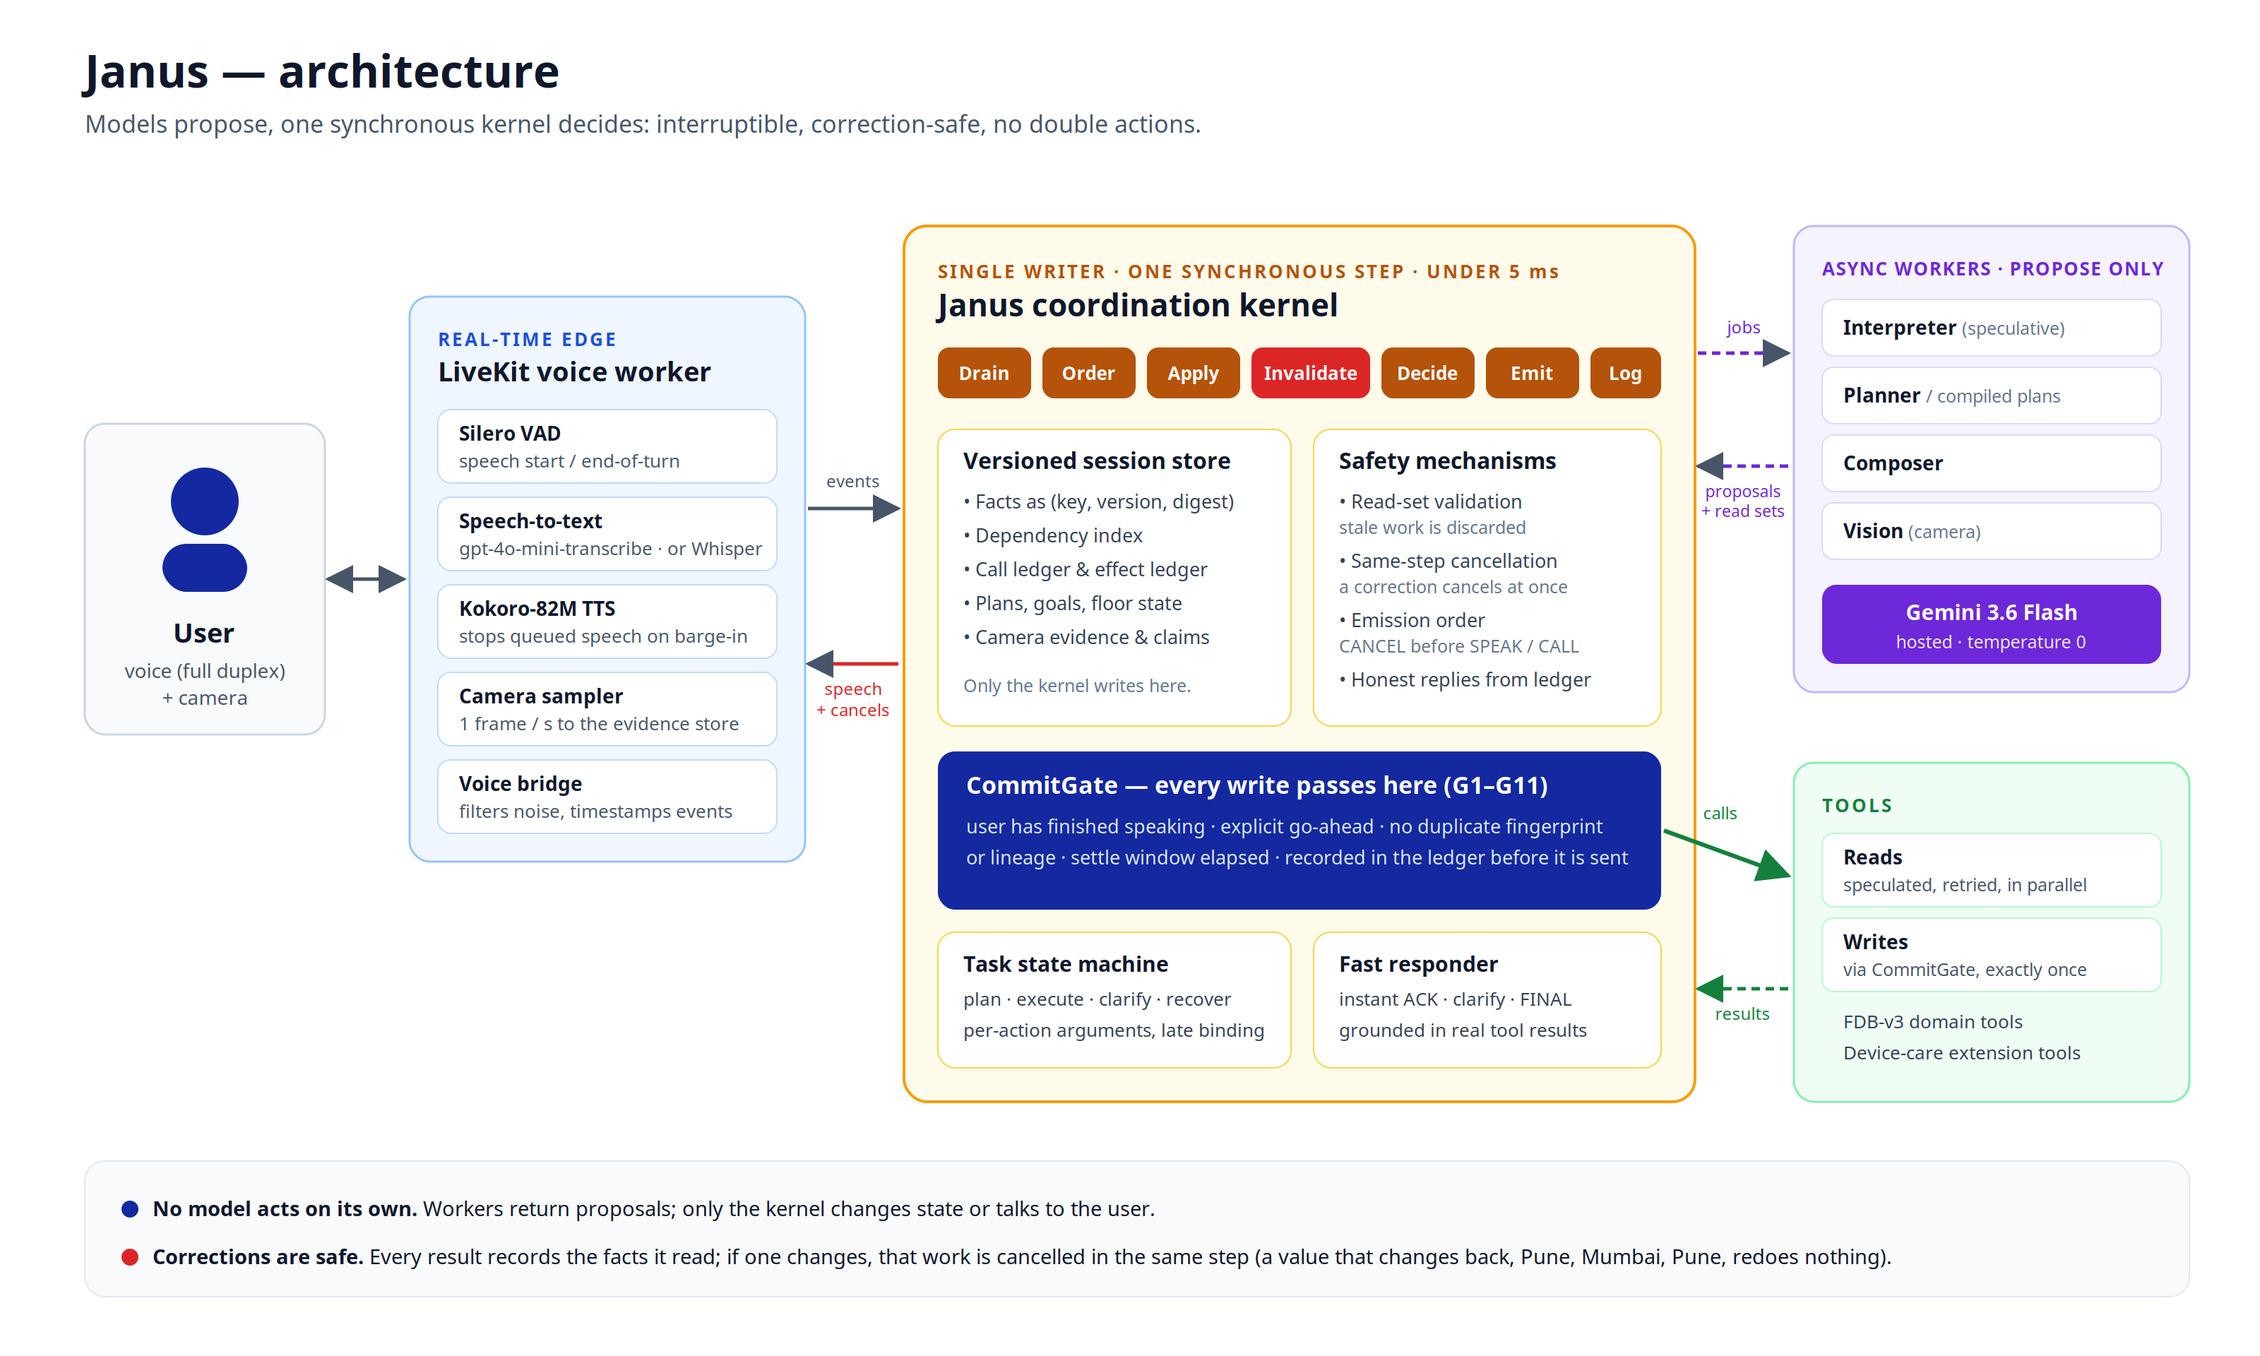
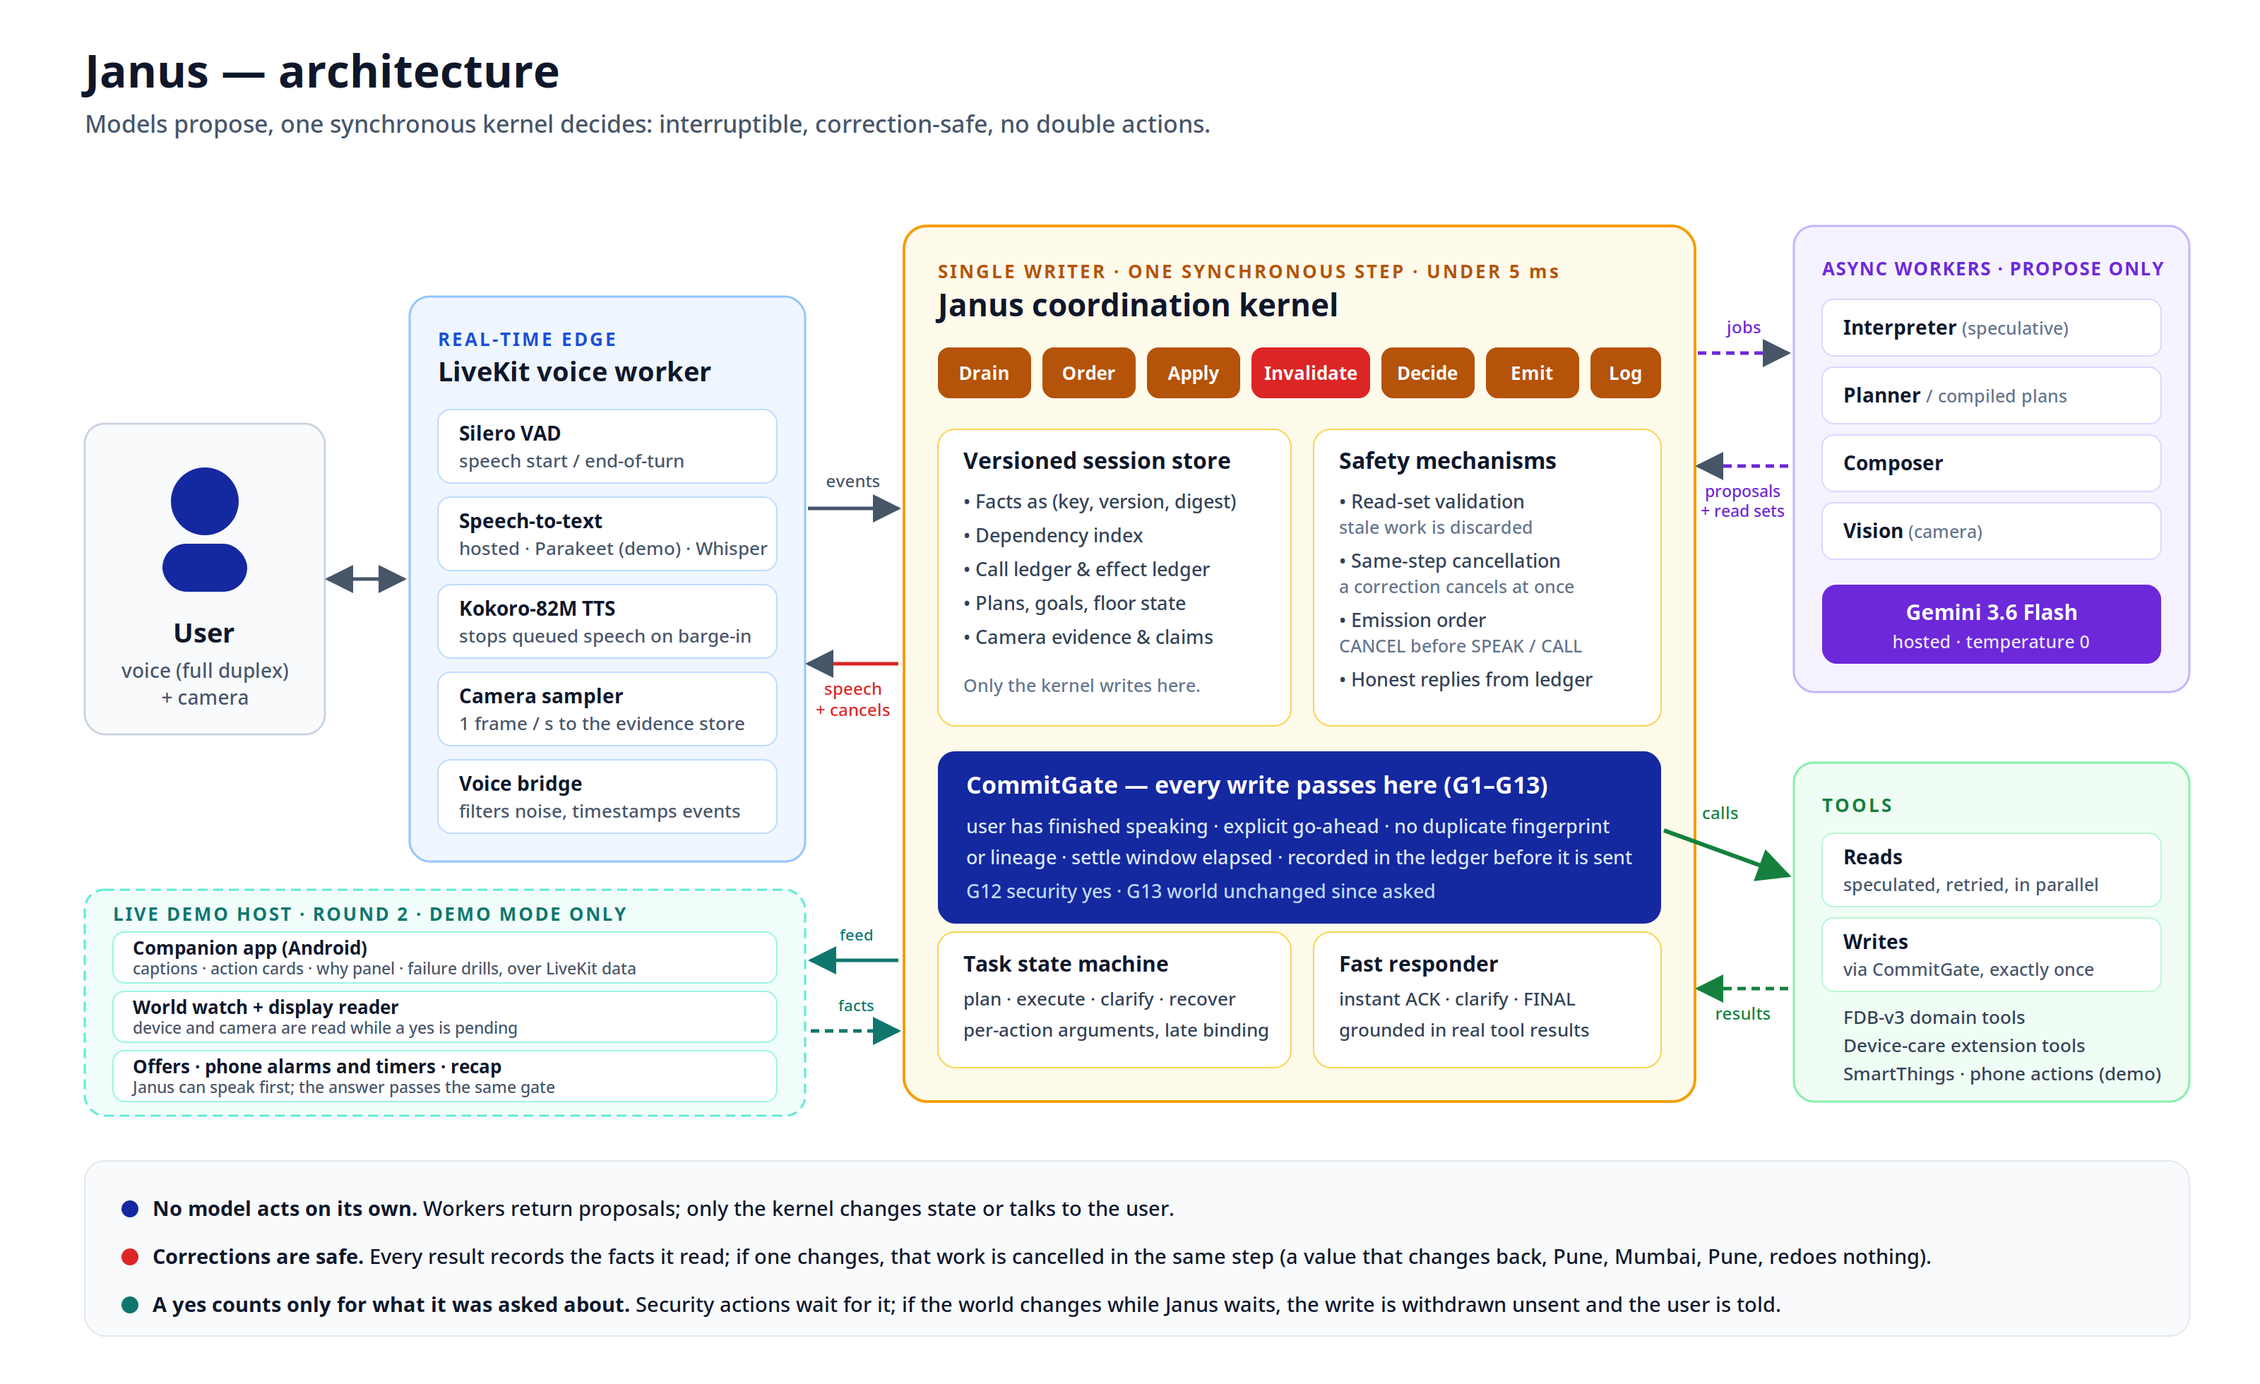
docs: redrawn architecture diagram (live demo host, G1-G13), X-ray of an outside change withdrawing a write, status update

diff --git a/docs/xray/withdrawn_by_outside_change.html b/docs/xray/withdrawn_by_outside_change.html
@@ -1,0 +1,18 @@
+<!doctype html><html lang="en"><head><meta charset="utf-8"><meta name="viewport" content="width=device-width,initial-scale=1"><title>Someone else already did it</title><style>
+:root{--bg:#fff;--fg:#1b1f24;--muted:#6b7280;--line:#e5e7eb;--user:#dbeafe;--kernel:#fef3c7;--agent:#dcfce7;--tool:#ede9fe;--bad:#fee2e2;--badfg:#991b1b}
+@media (prefers-color-scheme:dark){:root{--bg:#0f1216;--fg:#e6e8eb;--muted:#9aa3ad;--line:#2a3038;--user:#1e3a5f;--kernel:#4a3b0f;--agent:#14401f;--tool:#33285a;--bad:#4c1d1d;--badfg:#fca5a5}}
+*{box-sizing:border-box}body{margin:0;padding:24px 16px;background:var(--bg);color:var(--fg);font:15px/1.45 system-ui,sans-serif}
+main{max-width:1100px;margin:0 auto}h1{font-size:20px;margin:0 0 4px}p.sub{color:var(--muted);margin:0 0 16px}
+.grid{display:grid;grid-template-columns:64px repeat(4,1fr);gap:6px 8px;align-items:start}
+.head{font-weight:600;font-size:12px;letter-spacing:.06em;color:var(--muted);padding-bottom:6px;border-bottom:2px solid var(--line)}
+.t{font-variant-numeric:tabular-nums;color:var(--muted);font-size:12px;padding-top:6px;text-align:right}
+.card{grid-row:auto;padding:6px 9px;border-radius:8px;font-size:13.5px;overflow-wrap:anywhere}
+.user{background:var(--user)}.quiet{background:none;border:1px dashed var(--line);color:var(--muted)}
+.kernel,.hold{background:var(--kernel)}.invalidate{background:var(--kernel);border-left:4px solid #d97706}
+.agent,.final{background:var(--agent)}.final{font-weight:600}.cancel{background:var(--agent);border-left:4px solid #d97706}
+.call,.result{background:var(--tool)}.bad{background:var(--bad);color:var(--badfg)}
+.struck{text-decoration:line-through;opacity:.75}.tag{display:inline-block;margin-left:6px;font-size:10.5px;letter-spacing:.05em;text-transform:uppercase;color:var(--muted);text-decoration:none}
+.struck .tag{color:var(--badfg)}
+.legend{font-size:12.5px;color:var(--muted);margin-top:16px}
+@media (max-width:760px){.grid{grid-template-columns:48px repeat(4,minmax(120px,1fr));overflow-x:auto}}
+</style></head><body><main><h1>Someone else already did it</h1><p class="sub">Effect ledger: 0 committed, 1 withdrawn before sending, 0 refused or failed, 0 duplicates (simulated SmartThings lock). 4.5s, 9 events.</p><div class="grid"><div class="head"></div><div class="head">USER</div><div class="head">KERNEL</div><div class="head">AGENT</div><div class="head">TOOLS</div><div class="t" style="grid-column:1">0.00s</div><div class="card user" style="grid-column:2">“unlock the front door”</div><div class="t" style="grid-column:1">0.10s</div><div class="card quiet" style="grid-column:2">end of turn</div><div class="t" style="grid-column:1">0.25s</div><div class="card kernel" style="grid-column:3">actions understood</div><div class="t" style="grid-column:1">0.25s</div><div class="card kernel" style="grid-column:3">user committed to the action</div><div class="t" style="grid-column:1">0.25s</div><div class="card agent" style="grid-column:4">That&#x27;s a security action. Shall I unlock the front door?<span class="tag">speak</span></div><div class="t" style="grid-column:1">0.25s</div><div class="card call struck" style="grid-column:5">st_unlock waiting to commit<span class="tag">never sent</span></div><div class="t" style="grid-column:1">3.00s</div><div class="card quiet" style="grid-column:5">watch: front door = locked</div><div class="t" style="grid-column:1">4.50s</div><div class="card quiet" style="grid-column:5">watch: front door = unlocked</div><div class="t" style="grid-column:1">4.50s</div><div class="card final" style="grid-column:4">Never mind: the front door is already unlocked. It changed while I was waiting, so I didn&#x27;t send anything.<span class="tag">final</span></div></div><p class="legend">Struck-through work was invalidated by a later correction in the same kernel step: it was cancelled and its result discarded. A KERNEL &ldquo;held&rdquo; row is the CommitGate refusing to act yet.</p></main></body></html>

diff --git a/scripts/make_xray.py b/scripts/make_xray.py
@@ -17,6 +17,10 @@ with `prism_rt.observability.xray`:
      "wait, don't stop it, just pause it": the pending stop is withdrawn
      before it is sent, the booking goes through once (simulated SmartThings
      washer; the effect-ledger summary is the subtitle).
+  4. withdrawn_by_outside_change -- "unlock the front door" waits for the
+     user's yes (a security action); while it waits, someone else unlocks the
+     door. The host's watch reports it, the write is withdrawn unsent and the
+     user is told (simulated SmartThings lock).
 """
 
 from __future__ import annotations
@@ -33,6 +37,9 @@ from prism_rt.model.types import ActionType, JobKind  # noqa: E402
 from prism_rt.observability.effects import effect_summary, format_effect_summary  # noqa: E402
 from prism_rt.observability.xray import build_rows, render  # noqa: E402
 from prism_rt.profiles import demo_config  # noqa: E402
+from prism_rt.canonical import world_target_key  # noqa: E402
+from prism_rt.smartthings.mock import MockSmartThings  # noqa: E402
+from prism_rt.smartthings.tools import SmartThingsToolset  # noqa: E402
 from prism_rt.sim.harness import SimHarness  # noqa: E402
 from prism_rt.workers.gateway import ScriptedProvider  # noqa: E402
 
@@ -154,10 +161,38 @@ def withdraw_one_of_two_writes() -> str:
     return s.html("Withdrawing one of two pending writes", format_effect_summary(summary) + " (simulated SmartThings washer).")
 
 
+def withdrawn_by_outside_change() -> str:
+    async def _no_sleep(_s):
+        return None
+
+    mock = MockSmartThings()
+    asyncio.run(mock.command("lock-1", "lock", "lock"))
+    mock.commands.clear()
+    p = ScriptedProvider()
+    p.register("interpret", "unlock the front", {
+        "act": "new_goal", "intent": "st_unlock", "slot_deltas": [], "commit_intent": True,
+        "actions": [{"tool": "st_unlock", "args": {"device": "front door"}}]})
+    p.register("compose", "", {"text": "Done.", "claims": []})
+    s = Session(p, SmartThingsToolset(mock, sleep=_no_sleep))
+    s.send(100_000, [{"type": "text_chunk", "payload": {"text": "unlock the front door"}}])
+    s.send(200_000, [{"type": "end_of_turn", "payload": {}}])
+    s.run(3_000_000)  # "That's a security action. Shall I unlock the front door?"
+    key = world_target_key("front door")
+    s.send(3_100_000, [{"type": "world_fact", "payload": {"key": key, "value": "locked"}}])  # the watch's baseline
+    s.run(4_500_000)
+    s.send(4_600_000, [{"type": "world_fact", "payload": {"key": key, "value": "unlocked"}}])  # someone else unlocked it
+    s.run(8_000_000)
+    assert mock.commands == [], mock.commands
+    summary = effect_summary(s.h.store)
+    assert summary["withdrawn_before_sending"] == 1 and summary["duplicates"] == 0, summary
+    return s.html("Someone else already did it", format_effect_summary(summary) + " (simulated SmartThings lock).")
+
+
 if __name__ == "__main__":
     out = ROOT / "docs" / "xray"
     out.mkdir(parents=True, exist_ok=True)
     for name, fn in (("correct_before_booking", correct_before_booking), ("correct_a_running_lookup", correct_a_running_lookup),
-                     ("withdraw_one_of_two_writes", withdraw_one_of_two_writes)):
+                     ("withdraw_one_of_two_writes", withdraw_one_of_two_writes),
+                     ("withdrawn_by_outside_change", withdrawn_by_outside_change)):
         (out / f"{name}.html").write_text(fn(), encoding="utf-8")
         print("wrote", out / f"{name}.html")

diff --git a/src/prism_rt/observability/xray.py b/src/prism_rt/observability/xray.py
@@ -111,6 +111,11 @@ def build_rows(decisions: Iterable[dict], wire: Iterable[dict] = ()) -> list[dic
                 rows.append({"t": t, "lane": "USER", "cls": "user", "text": "interrupts the agent"})
             elif kind == "video_frame":
                 rows.append({"t": t, "lane": "USER", "cls": "quiet", "text": f"camera frame {body.get('frame_id', '')}"})
+            elif kind == "world_fact":
+                # The host's watch of a device a held write targets (live demo profile).
+                name = str(body.get("key", "")).removeprefix("target.")
+                what = f"{name}: not found" if body.get("missing") else f"{name} = {body.get('value')}"
+                rows.append({"t": t, "lane": "TOOLS", "cls": "quiet", "text": f"watch: {what}", "first": True})
             elif kind == "tool_result":
                 status = body.get("status", "ok")
                 text = f"result {status}: {_short(body.get('result'))}"
@@ -180,7 +185,7 @@ def build_rows(decisions: Iterable[dict], wire: Iterable[dict] = ()) -> list[dic
         if h:
             span = (h["until"] - h["t"]) / 1e6
             row["text"] = f"held: {h['label']}" + (f" ({span:.1f}s)" if span >= 0.05 else "")
-    rows.sort(key=lambda r: (r["t"], LANES.index(r["lane"])))
+    rows.sort(key=lambda r: (r["t"], 0 if r.get("first") else 1, LANES.index(r["lane"])))  # a cause before its effect in one step
     return rows
 
 

diff --git a/currentStatus.md b/currentStatus.md
@@ -964,6 +964,12 @@ Ecosystem research, a feasibility triage of every candidate idea and the 3-minut
 
 **WP1 done (2026-10-19, uncommitted): `requires_confirmation` + CommitGate G12.** `ToolSpec.requires_confirmation` (catalog), `Config.confirmation_policy_enabled` (on in `demo_config`, off in `fdb_v3_config`), G12 in `kernel/commit.py` (per call id: fact `confirm.<call_id>.granted`), security wording `CONFIRM_SECURITY` in `config/templates.py` used by `responder._confirm_unconfirmed_write`, CONFIRM writes the granted fact and DENY drops the call and ends the goal honestly ("Okay, nothing was sent.", `task_completed=False`) in `interpret_apply.py`. Tests: `tests/test_confirmation_policy.py` (7); suite 652/652. Next: WP2.
 
+**Update (2026-10-25, afternoon) — final-submission documentation pass done; benchmarks pending your "go". Nothing mid-flight.**
+- **Writing:** README (Round 2 live demo profile section, G1–G13 gate table, benchmark-configuration callout for the relaxed housing contract, keys incl. `ST_PAT` and `JANUS_STT=parakeet`, repo map, limitations, 995 tests), `docs/architecture_walkthrough.md`, `docs/demo_guide.md`, `docs/history.md` (post-tag history), a "current benchmark" box in `CLAUDE.md` and at the top of this file, historical banners on dated docs and on 21 private notes in `docs-personal/` (competitor notes, research packs and the live failure catalogue left alone). **Still stale on purpose, to be fixed in one pass after the two final runs:** score lines in the README (header table, Highlights, Results, Limitations, Reproduce), `BENCHMARKS.md`, `benchmarks/report_template.md`, `scripts/build_deck.py` and the Round 1 deck.
+- **Diagrams:** `docs/architecture.svg`/`.png` redrawn (live demo host box, G1–G13, Parakeet, SmartThings and phone tools, a third principle); new X-ray `docs/xray/withdrawn_by_outside_change` (scenario in `scripts/make_xray.py`; the renderer now draws `world_fact` rows).
+- **Repo tidy:** untracked wheels, run archives (477 MB), logs moved to `~/Desktop/Hackathons/prism_leftovers_2026-10-25/` (nothing deleted); `.claude/` ignored. **Awaiting your decision:** tracked leftovers `audio/`, `frames/` (eval-kit samples, unreferenced), `preview.png`, and the two 3 Oct per-run reports in the root (`BENCHMARK_FULL100_*`: move to `docs/runs/` or remove).
+- **Benchmarks:** VM `ubuntu@154.221.33.233` (NeevCloud RTX 3090) is on the latest branch (`82db479` at the time), keys verified, FDB data cached. Plan: two full voice runs (`./reproduce.sh --skip-build` with the relaxed housing contract on, then `JANUS_FDB_RELAXED_HOUSING=0`), started only on the user's "go" after the Gemini and OpenAI credit is topped up (the Gemini credit was depleted on 25 Oct; the published-contract text replay that morning was invalid for that reason). Present the "on" result with the contract called out; the Round 1 74/100 used the published definitions. The organizers' view on reporting an adjusted tool definition is being asked by mail. **Still open:** F28 (narrow misheard-word fixes: suggested keep thermostat/Janus/front door, drop "A. Janus" and "Now→No"), F11, merge and push on the team's go-ahead.
+
 **Update (2026-10-25, midday) — ultrareview 3 of 3 done (`review-base-r2`..`feat/r2-extras`, 88 files); 9 of 10 findings confirmed and fixed, verified on the A30. Nothing mid-flight; next: the 25 Oct (early) list below (decisions, cleanup/README/diagrams, merge on go-ahead).**
 - Logged in `reviews/index.md` (2026-10-25 row). Every fix has a regression test that fails without it; suite **995 passed**.
 - Fixed: (1) the social short-cut before interpretation now needs the whole turn to be social (`replies.social_reply(whole_turn=True)`), so "Are you there? Turn off the switch." is done; (2) the echo filter counts a transcript as Janus's own voice only if its speech started while Janus was audible (+0.4 s), so "Close it." right after "Shall I close it?" is the user's answer; (3) a correction after a write went through is redone as a new request only for a one-action request (no resend of the others); (4) a camera code outside the knowledge base is ignored by the simulated washer; (5) a camera "clear" only clears an error, never overrides the user's pause/stop; (6) clarify misses are counted per question; (7) a re-ask restarts the security question's minute (`confirm.<call>.asked_again`); (8) the camera watch stops after `JANUS_CAMERA_WATCH_MAX_S` (180 s); (9) the watch skips its SmartThings read when the device's server-side read allowance is at 4 or fewer (`client.reads_left`, `WATCH_READ_RESERVE`; the phone log of 24 Oct showed the lock's down to 1 during a 99 s wait).

diff --git a/README.md b/README.md
@@ -594,6 +594,10 @@ Round 2 is a live demonstration, so the same kernel also runs as a voice assista
 | **Phone actions** | Alarms and timers on the user's phone through the companion app (LiveKit data topic `janus.phone`); the phone's own alarms cannot be read, so a repeated alarm is asked about first |
 | **Failure drills** | From the app, on purpose: SmartThings unreachable, never confirming or slow; the model slow or down; "someone else" changing a device |
 
+![Someone else unlocks the door while Janus waits for a yes: the write is withdrawn unsent](docs/xray/withdrawn_by_outside_change.png)
+
+*The kernel's X-ray of one such moment: an unlock waits for the user's yes, the watch sees the door unlocked by someone else, and the write is withdrawn before it is sent (`scripts/make_xray.py` draws it from a replayable run).*
+
 **Speech and turn-taking.** The worker's default recognizer is NVIDIA Parakeet TDT 0.6B v2 on the GPU (hosted transcription with `JANUS_STT=openai`). Quiet segments below an RMS floor are not transcribed, a transcript that repeats the recognizer's own prompt is dropped, and Janus's own voice coming back through a loudspeaker is not taken as the user's. Reply openers vary with the turn ("Let me check." for a question, "Okay." for a request), a reply is not cut off when LiveKit closes the user's turn, and talking over Janus stops it. A write is held 2.5 s after the user stops (`JANUS_SETTLE_MS`) so a late correction ("…actually, twenty-one") can still cancel it; the first sound comes about 2 s after the user stops in scripted runs.
 
 **The companion app** (`app/`, React Native; built and tested on Android): live captions, one card per action with its state (planned, held and why, waiting for your yes, sent, confirmed, sent but not confirmed, never sent), device tiles, a ledger summary, a "why" panel that shows the read set a call was built on and what changed, a thinking orb, and the failure-drill drawer. It talks to the worker only through LiveKit data topics; the contract is [`app/INTEGRATION.md`](app/INTEGRATION.md).
